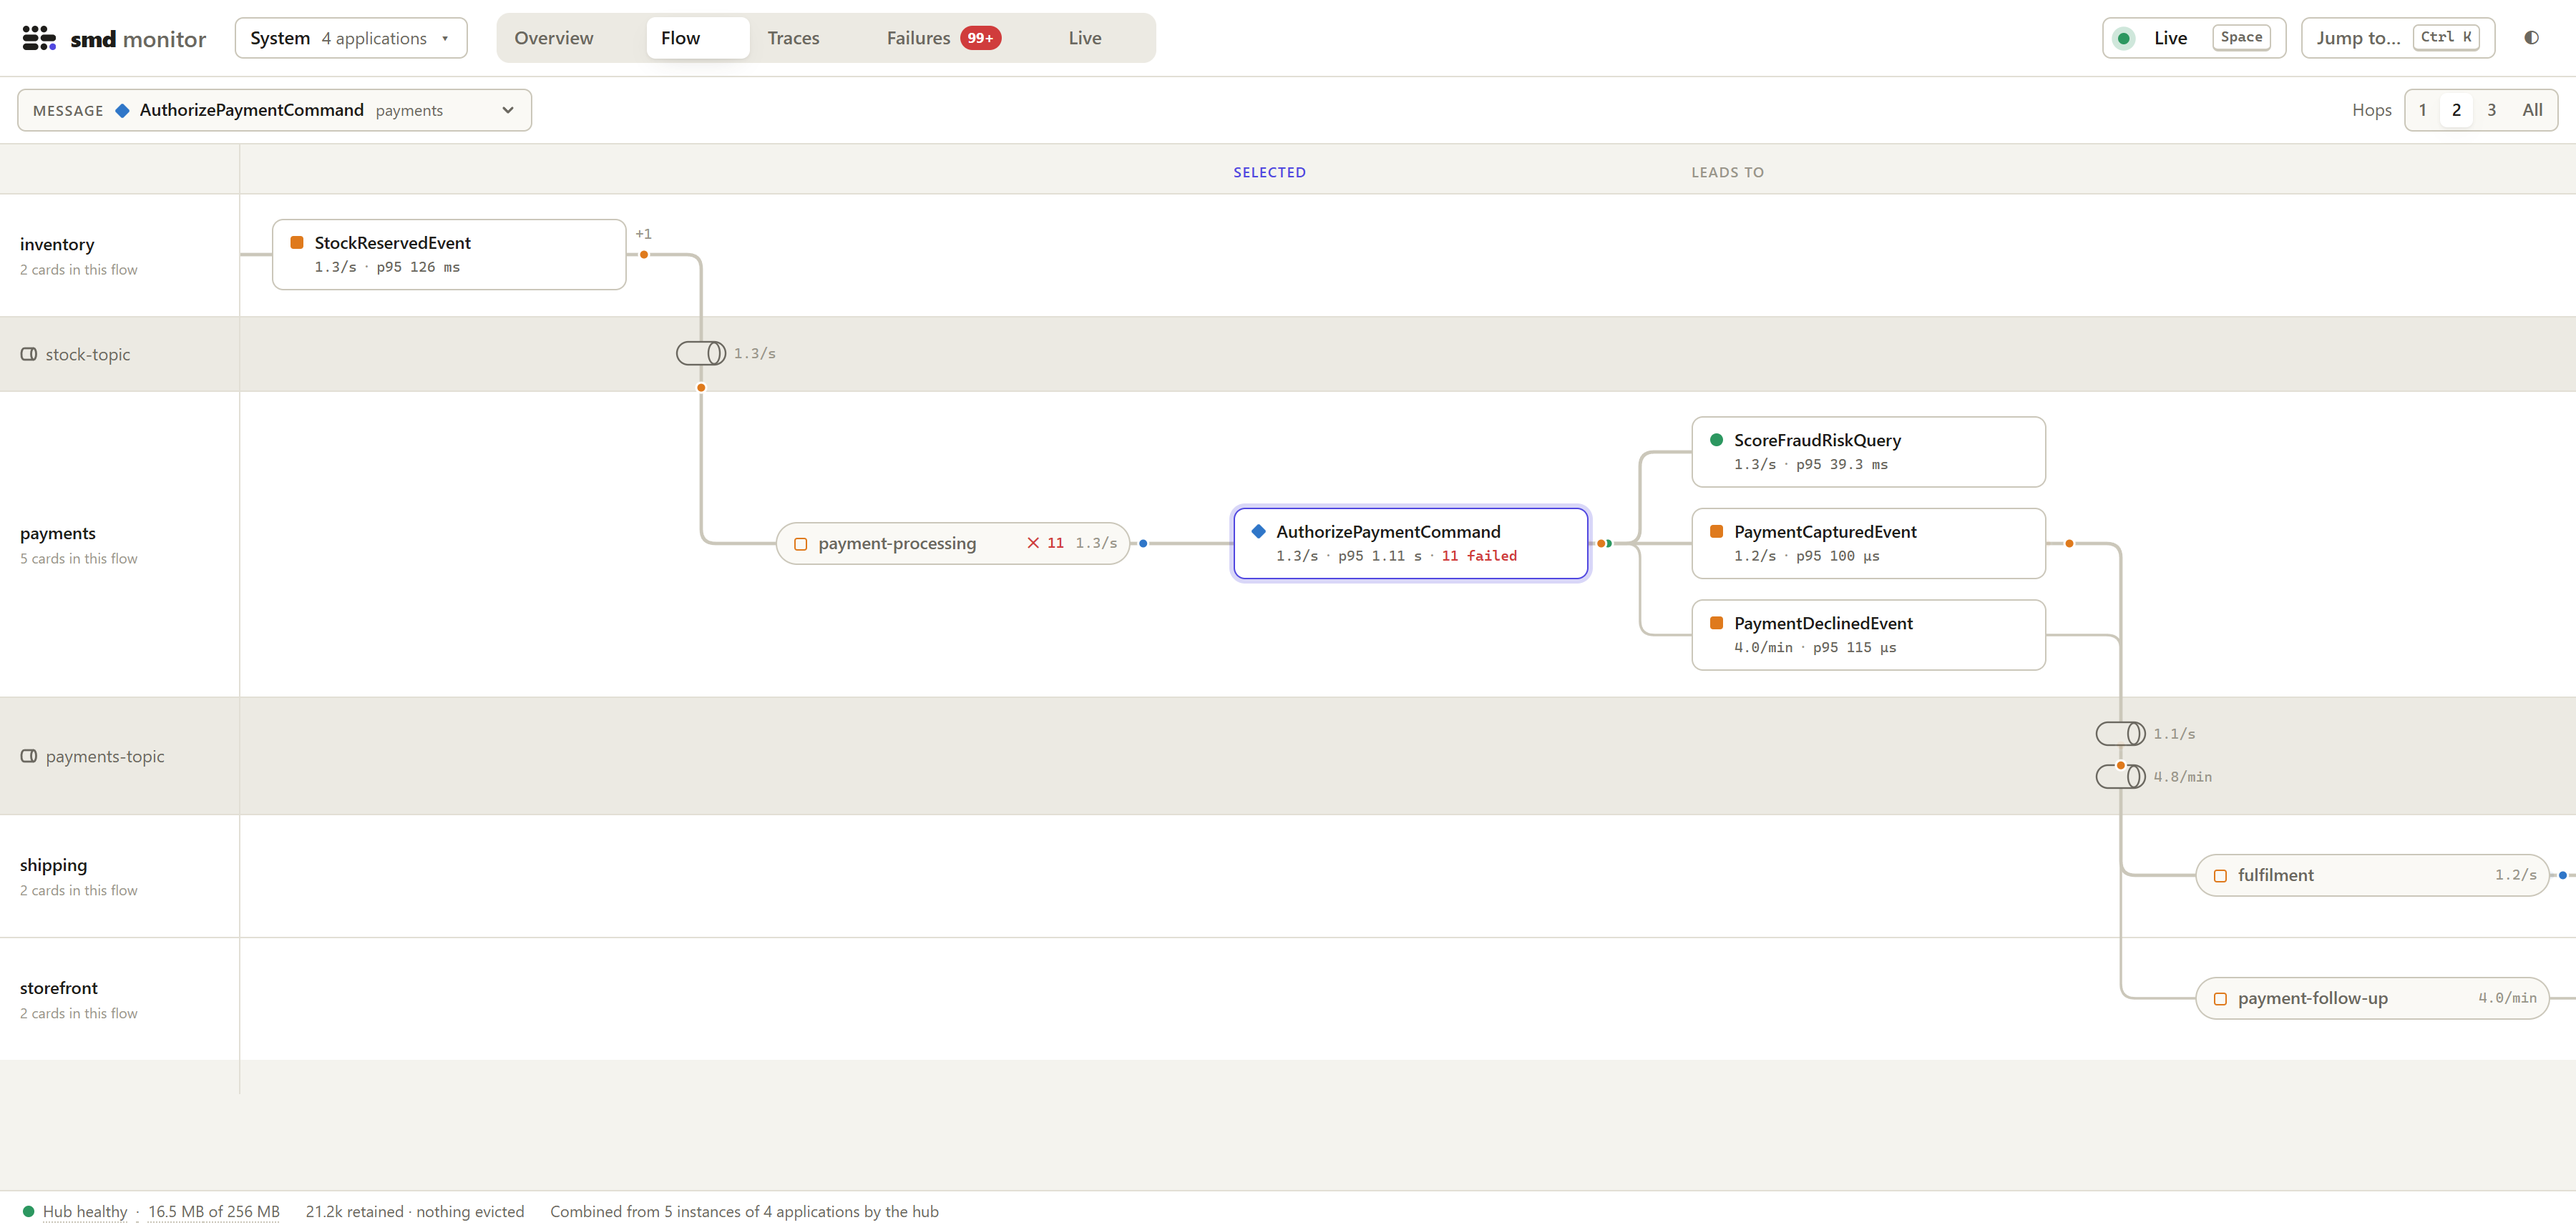
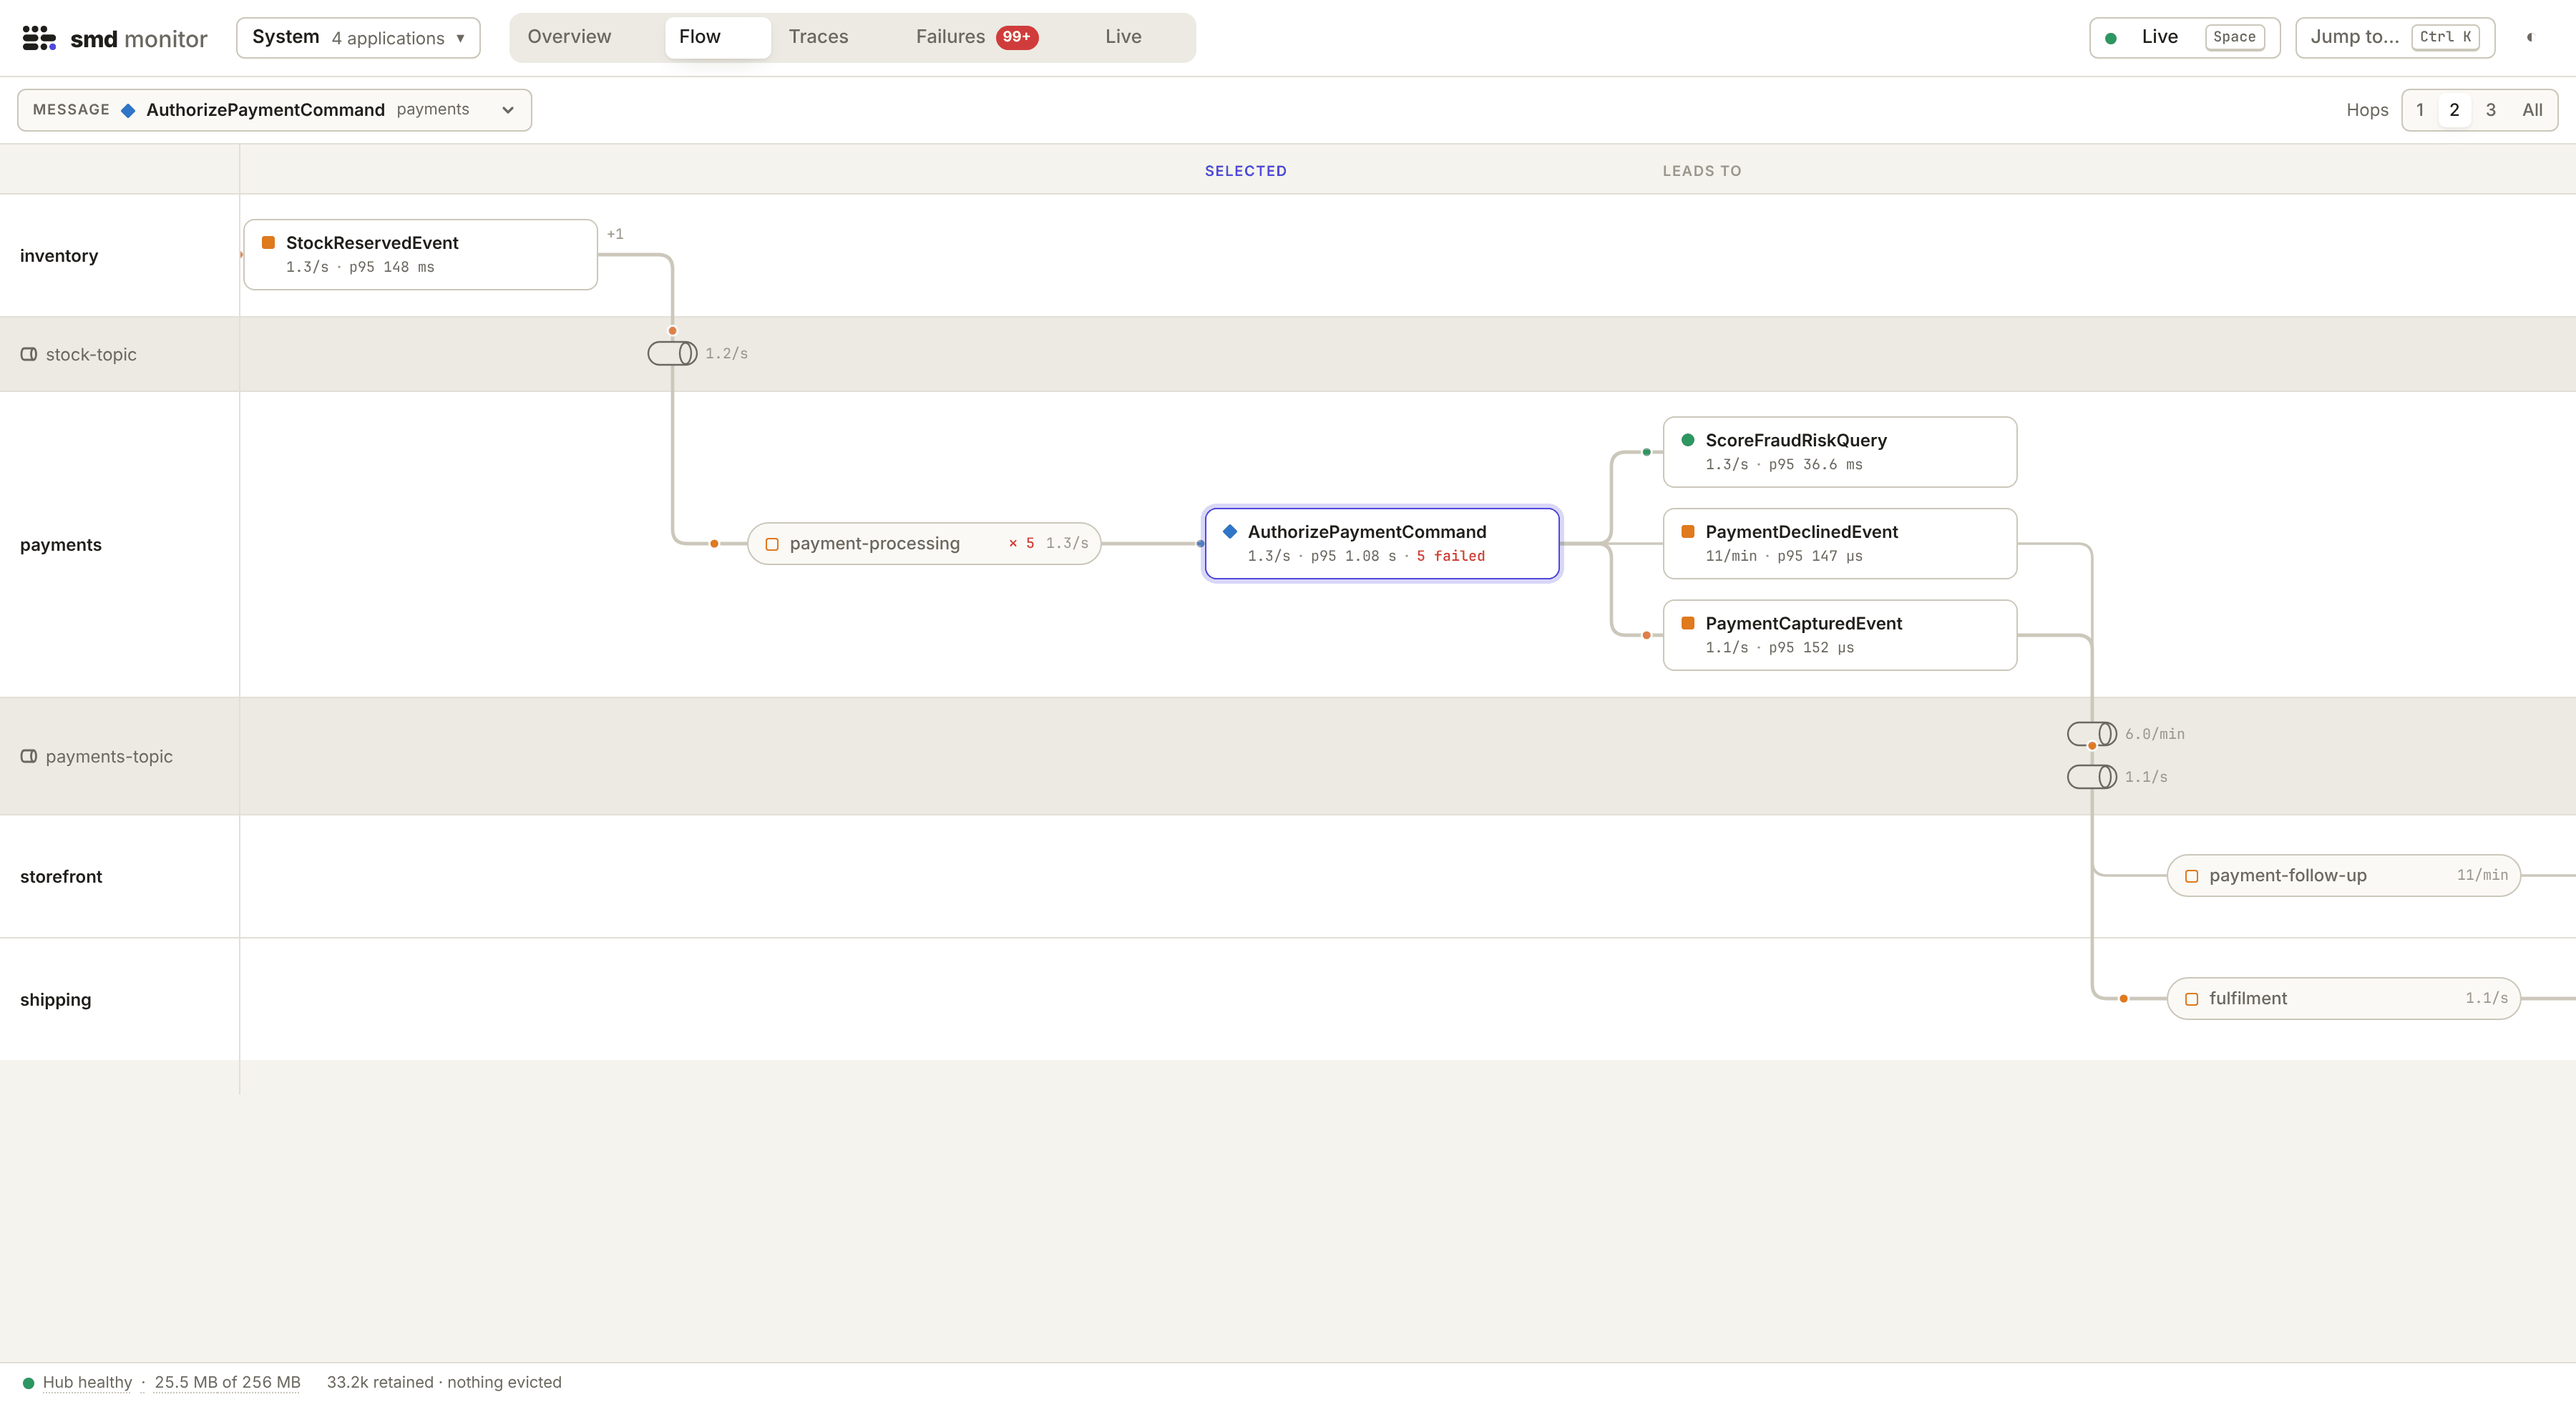
Retake the README's screenshots and show the application scope and inspector
The screenshots predated the applications table, linked applications, and the
newer Flow, Traces, and inspector layouts. A capture script now retakes them
from the demo, so they can follow the page.

Claude-Session: https://claude.ai/code/session_015ccqvVLtW8RDCedBw2Ufic

diff --git a/README.md b/README.md
@@ -11,7 +11,7 @@ OpenTelemetry backend.
 
 <picture>
   <source media="(prefers-color-scheme: dark)" srcset="docs/screenshots/overview-dark.png">
-  <img alt="The Overview of the demo web shop: entry points, failure rate, latency, and event delay, its four applications, five minutes of activity, and every message type with its latency" src="docs/screenshots/overview-light.png">
+  <img alt="The Overview of the demo web shop: entry points, failure rate, p95 latency per kind, and event delay, its four applications with their rates and failures, five minutes of activity, and every message type with its latency band" src="docs/screenshots/overview-light.png">
 </picture>
 
 ## Try it
@@ -25,11 +25,20 @@ storefront takes orders on two instances, and inventory, payments, and shipping 
 
 ## A look around
 
+The page has five views, for the whole system or one application. **Overview**, above, sums up the last minute. Narrowed to one application, it also shows how
+that application is linked to the others: upstream the applications whose messages cause its invocations, downstream those its messages cause invocations in,
+each link as thick as its rate.
+
+<picture>
+  <source media="(prefers-color-scheme: dark)" srcset="docs/screenshots/application-dark.png">
+  <img alt="The Overview narrowed to payments: inventory upstream and shipping and storefront downstream, linked by their rates, above payments' activity and message types" src="docs/screenshots/application-light.png">
+</picture>
+
 **Flow** follows a message across applications and the topics between them: what caused it, what it led to, and how each step fares.
 
 <picture>
   <source media="(prefers-color-scheme: dark)" srcset="docs/screenshots/flow-dark.png">
-  <img alt="The Flow view around AuthorizePaymentCommand: a reserved order arrives from inventory over a topic, and its captured or declined payment goes on to shipping and storefront" src="docs/screenshots/flow-light.png">
+  <img alt="The Flow view around AuthorizePaymentCommand: a reserved order arrives from inventory over a topic, and its captured or declined payment goes over another topic to fulfilment in shipping and payment follow-up in storefront" src="docs/screenshots/flow-light.png">
 </picture>
 
 **Traces** lays out a retained trace as a waterfall, with the application, instance, and thread of every message and handling: here a declined payment,
@@ -37,22 +46,33 @@ which storefront compensates by cancelling the order and inventory by releasing 
 
 <picture>
   <source media="(prefers-color-scheme: dark)" srcset="docs/screenshots/traces-dark.png">
-  <img alt="The Traces view showing a PlaceOrderCommand trace across storefront, inventory, and payments as a waterfall, ending in a cancelled order" src="docs/screenshots/traces-light.png">
+  <img alt="The Traces view showing a PlaceOrderCommand trace across storefront, inventory, and payments as a waterfall, in which a declined payment cancels the order and releases its stock" src="docs/screenshots/traces-light.png">
 </picture>
 
 **Failures** groups failures by cause and shows the chain from the entry point to where each was raised.
 
 <picture>
   <source media="(prefers-color-scheme: dark)" srcset="docs/screenshots/failures-dark.png">
-  <img alt="The Failures view listing out-of-stock and payment gateway timeout causes per application, with their chains and failure rates per message type and group" src="docs/screenshots/failures-light.png">
+  <img alt="The Failures view listing out-of-stock and payment gateway timeout causes per application, with their chains and latest traces, and the failure rates per message type and processing group" src="docs/screenshots/failures-light.png">
 </picture>
 
 **Live** shows every invocation of the last seconds or minutes as it happens.
 
 <picture>
   <source media="(prefers-color-scheme: dark)" srcset="docs/screenshots/live-dark.png">
-  <img alt="The Live view showing the invocations of every message type in lanes over the last 30 seconds" src="docs/screenshots/live-light.png">
+  <img alt="The Live view showing the invocations of every message type in lanes over the last 30 seconds, grouped by application" src="docs/screenshots/live-light.png">
 </picture>
+
+Select any card, row, bar, or dot to **inspect** it: a message type's activity, failures, and latency, what causes it and what it causes, and its latest
+invocations; an invocation's lineage and timing; or an application's instances and links.
+
+<picture>
+  <source media="(prefers-color-scheme: dark)" srcset="docs/screenshots/inspector-dark.png">
+  <img alt="The inspector open on AuthorizePaymentCommand beside the Overview's message types: its rate, failures by exception, latency percentiles, causes, effects, and recent invocations" src="docs/screenshots/inspector-light.png">
+</picture>
+
+[Using the monitor](docs/monitor.md#using-the-monitor) describes every view, and [What the figures mean](docs/monitor.md#what-the-figures-mean) what each
+figure counts.
 
 ## Run the hub
 

diff --git a/docs/monitor.md b/docs/monitor.md
@@ -414,6 +414,9 @@ For live reloading, run the demo and the Vite dev server, then open <http://loca
 cd frontend && npm run dev
 ```
 
+The README's screenshots are of the demo. After it has run five minutes, `docs/screenshots/capture.cjs` retakes them in light and dark with Playwright; its header
+says how.
+
 | Directory                                   | Contents                                                                                                                                                                               |
 |---------------------------------------------|----------------------------------------------------------------------------------------------------------------------------------------------------------------------------------------|
 | `src/lib`                                   | Framework-free TypeScript: the wire contract (`wire.ts`, mirroring `app.dodb.smd.monitor.json`), the snapshot and delta mirror (`mirror.ts`), queries (`api.ts`), and the views' logic |
